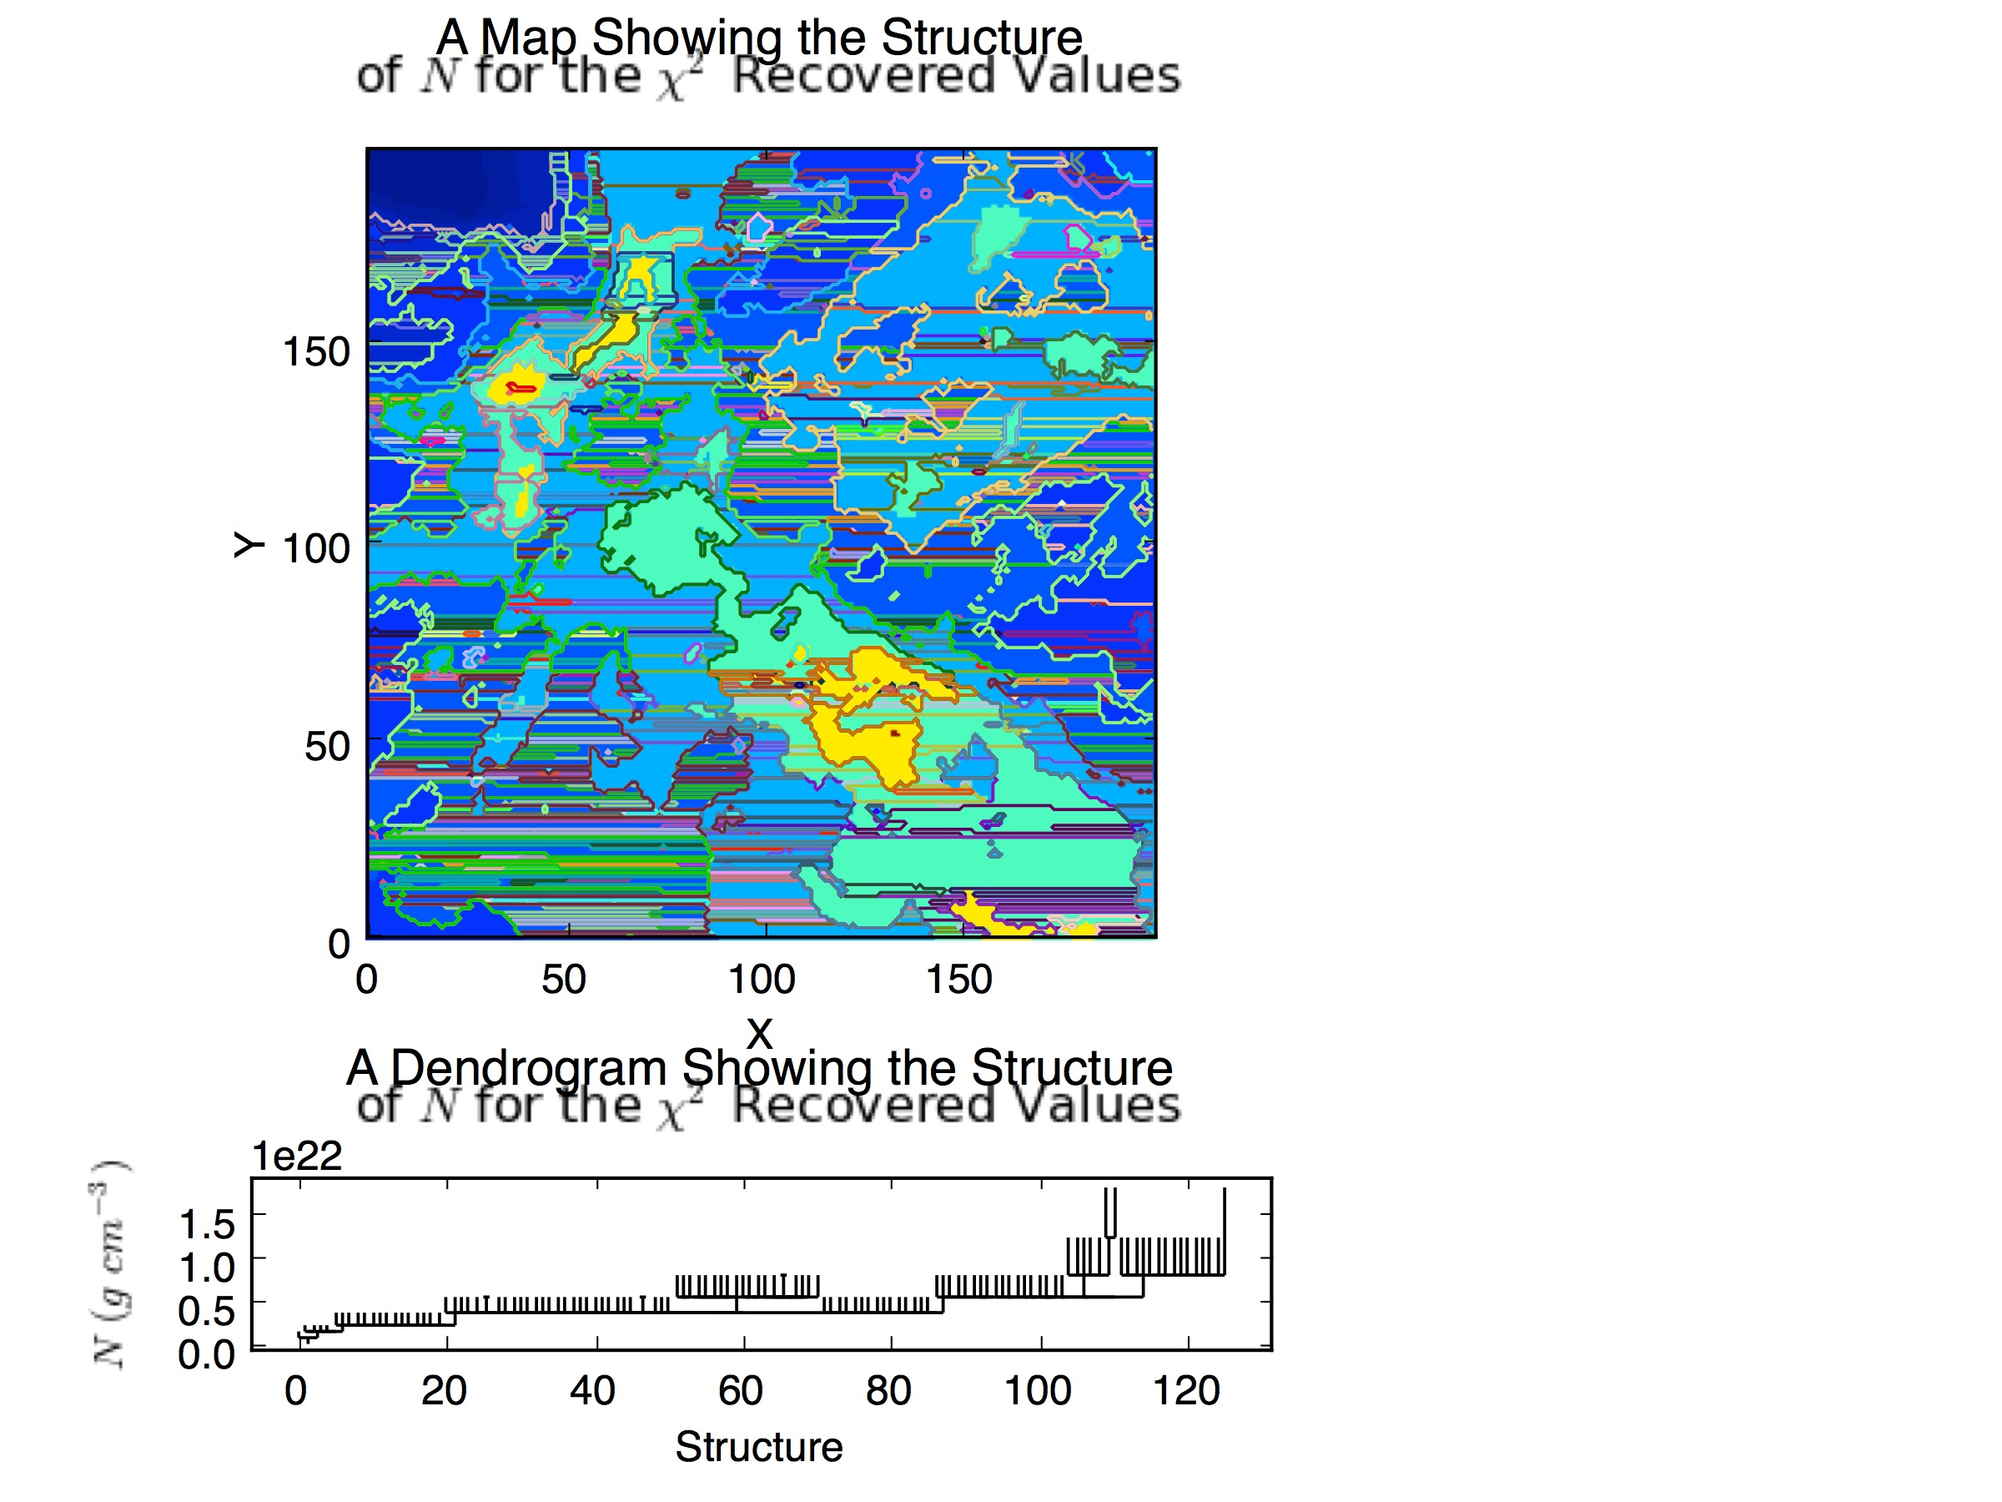
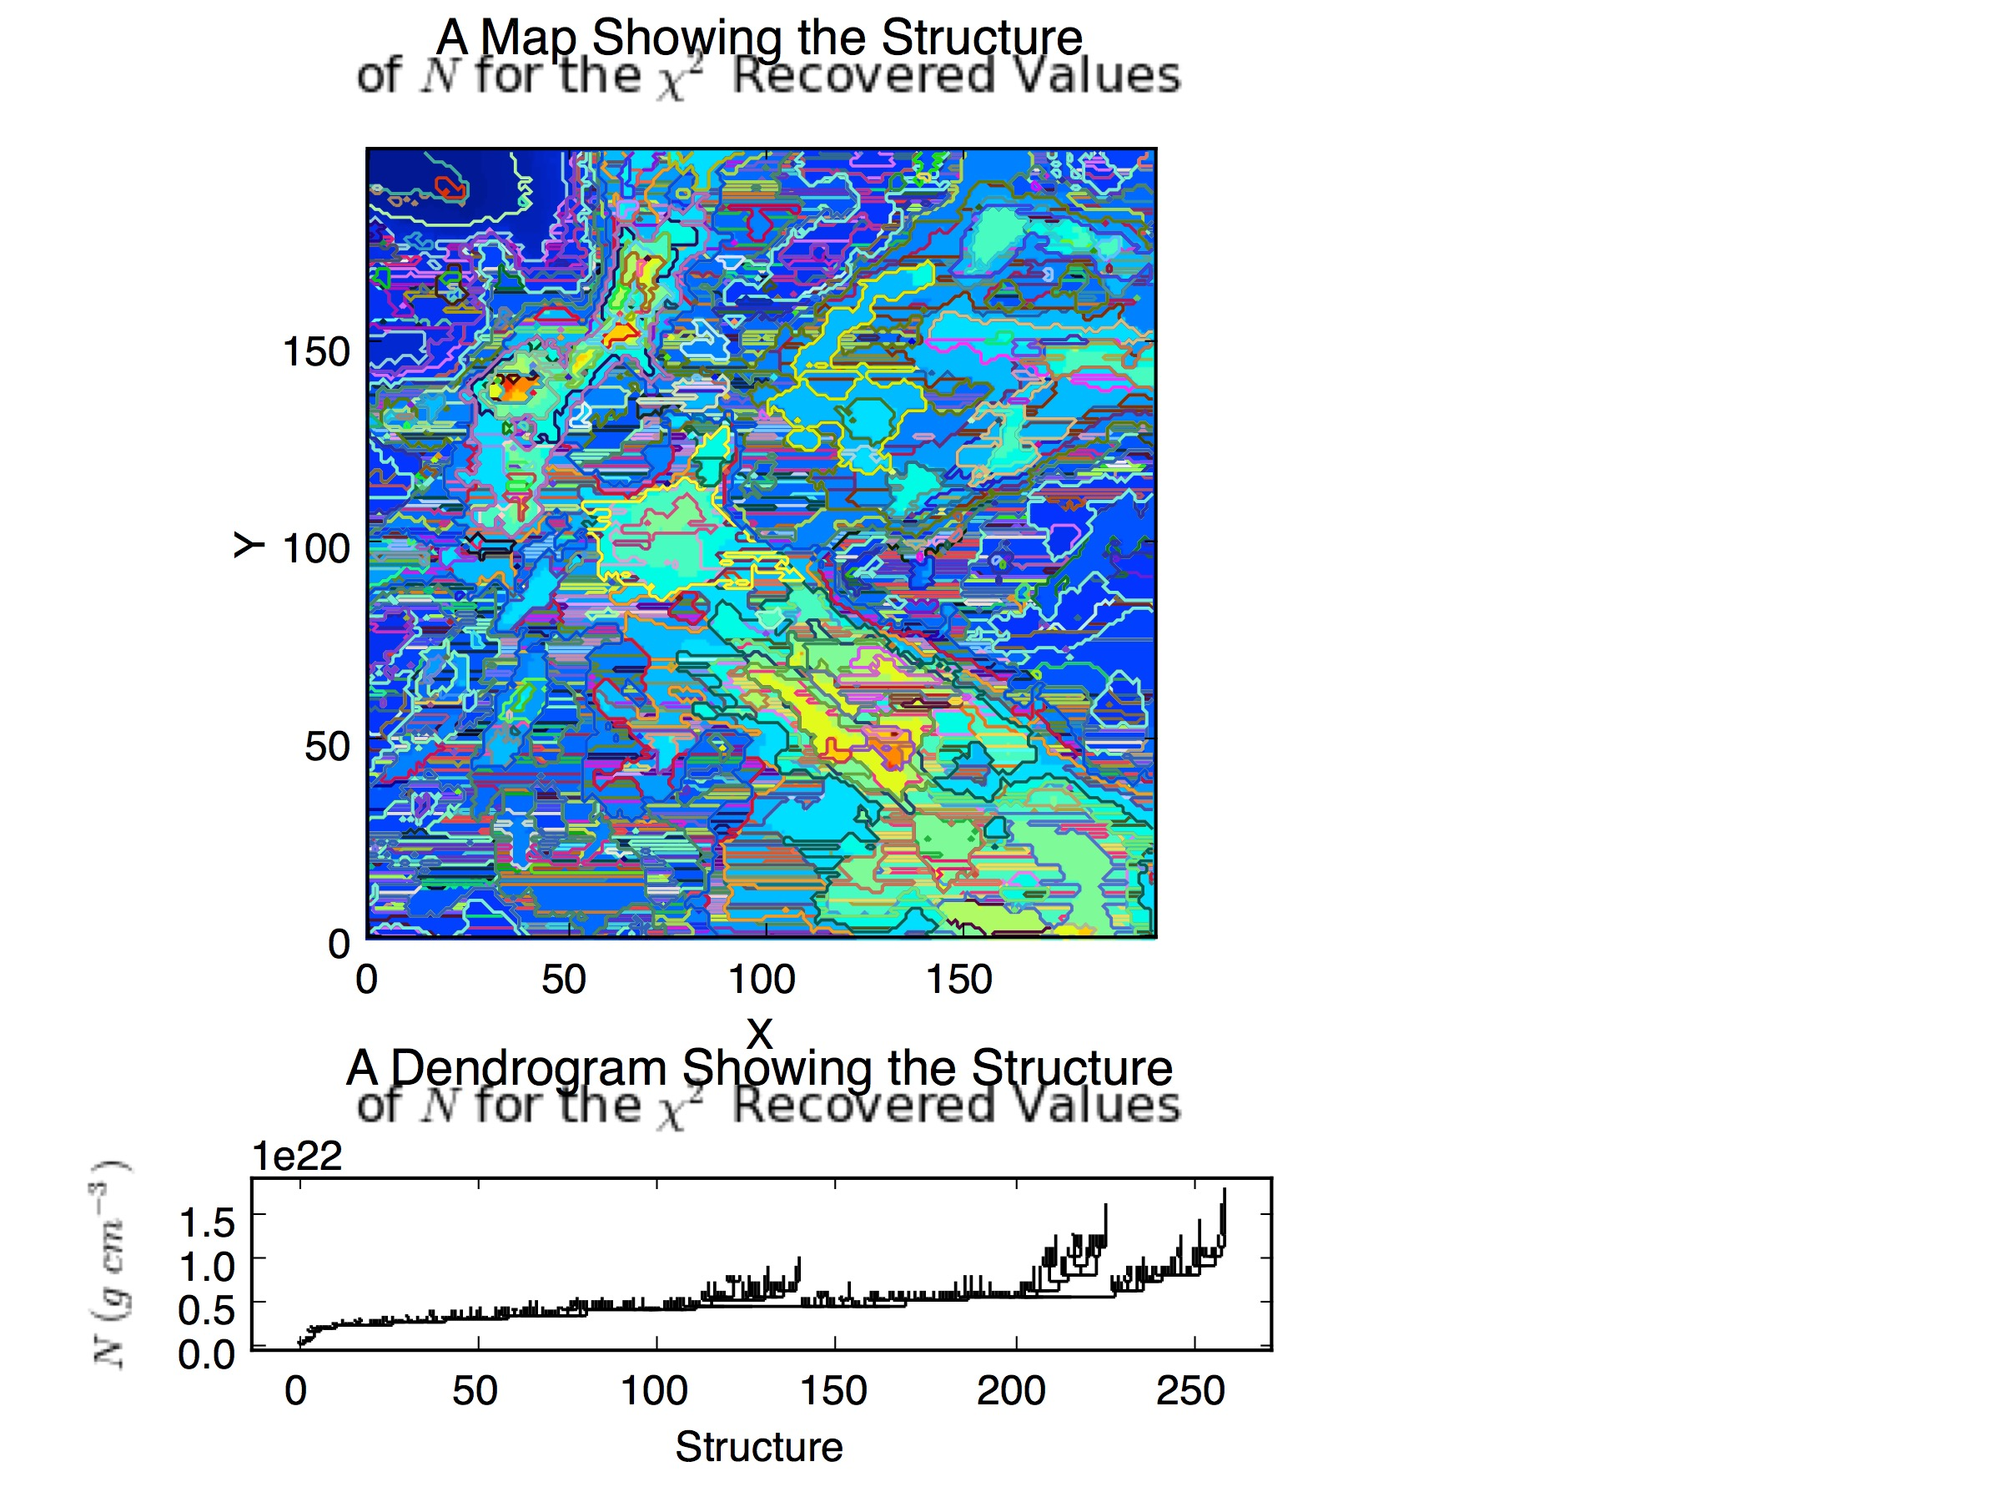
Added the fine run of chi squared

diff --git a/Code/simulations/curvefitting/filament/chiv6.py b/Code/simulations/curvefitting/filament/chiv6.py
@@ -89,7 +89,7 @@ flux = np.array([psw[:,5],pmw[:,5],plw[:,5],blue[:,5],green[:,5],red[:,5]])
 flux_error = np.array([psw[:,6],pmw[:,6],plw[:,6],blue[:,6],green[:,6],red[:,6]])
 
 # Read the initial radmc3dPy output to get image dimensions and info
-#imag = radmc3dPy.image.readImage('../../filament/blue/core/image.out')
+#imag = radmc3dPy.image.readImage('../../data/blue/dust_project/image.out')
 
 ######################### Determine (again) the opacity ########################
 
@@ -205,11 +205,12 @@ for i in range(0,len(xpix)*len(ypix)):
     col_full.append(col)
     T_full.append(col_T)
 
-N = np.linspace(np.log10(min(col_full)/100), np.log10(max(col_full)*100), 40)
+#N = np.linspace(np.log10(min(col_full)/100), np.log10(max(col_full)*100), 40)
+N = np.linspace(np.log10(10**18), np.log10(10**26), 40)
 
 # T is independent of the column density in determination so this remains unchanged
-T = np.linspace(min(dust_temperature)-1,max(dust_temperature)+1,40)
-#T = np.linspace(8,20,40)
+#T = np.linspace(min(dust_temperature)-4,max(dust_temperature)+4,40)
+T = np.linspace(4,20,40)
 
 datafeed_store.close()
 
@@ -225,7 +226,7 @@ print 'Now determining the modified blackbody curves.\n'
 chi_min_index_all, chi_min_blackbody_all = [], []
 
 # Save this to a file for storage
-chi_store = open('chi.txt', 'w')
+chi_store = open('chi_coarse.txt', 'w')
 cs = csv.writer(chi_store, delimiter=' ')
 
 # Save a line to allow better understanding of the columns
@@ -234,7 +235,7 @@ cs.writerow(cs_towrite)
 
 n = random.randint(0,imag.nx*imag.ny)
 
-for h in range(0,len(xpix)*len(ypix)):
+for h in range(0,imag.nx*imag.ny):
 
     # Loop through each column density and determine modified black body curve
     mod,chivals,N_index,T_index = [],[],[],[]
@@ -335,10 +336,149 @@ for h in range(0,len(xpix)*len(ypix)):
         grid(True,which='both')
         legend(loc='best')
         title('The $\chi^{2}$ Minimised Best Fit SED for PACS and SPIRE Bands for the (0,0) Pixel\n')
-        savefig('averages.png',dpi=300)
+        savefig('averages_coarse.png',dpi=300)
         close()
 
 chi_store.close()
+
+###################### Repeat for a second time #######################
+
+# Reopen the chi-squared storage
+chi_coarse = np.loadtxt('chi_coarse.txt', skiprows=1)
+
+# Determine the minimum and maximum column densities and temperatures
+min_N_loc, max_N_loc = np.where(chi_coarse[:,1] == chi_coarse[:,1].min())[0][0], np.where(chi_coarse[:,1] == chi_coarse[:,1].max())[0][0]
+min_T_loc, max_T_loc = np.where(chi_coarse[:,2] == chi_coarse[:,2].min())[0][0], np.where(chi_coarse[:,2] == chi_coarse[:,2].max())[0][0]
+
+min_N, max_N = chi_coarse[:,1][min_N_loc], chi_coarse[:,1][max_N_loc]
+min_T, max_T = chi_coarse[:,2][min_T_loc], chi_coarse[:,2][max_T_loc]
+
+print 'Now determining the (new) modified blackbody curves.\n'
+
+# Define the new N and T
+N = np.linspace(np.log10(min_N-min_N/2), np.log10(max_N+min_N/2), 40)
+T = np.linspace(min_T-min_T/2, max_T+min_T/2, 40)
+
+print 'I am now considering N from', min(N), 'to', max(N), 'and T from'
+print min(T), 'to', max(T), '.\n'
+
+chi_min_index_all, chi_min_blackbody_all = [], []
+
+# Save this to a file for storage
+chi_fine = open('chi_fine.txt', 'w')
+cs = csv.writer(chi_fine, delimiter=' ')
+
+# Save a line to allow better understanding of the columns
+cs_towrite = ['Index', 'Column Density', 'Temperature', 'Minimised Chi-Squared']
+cs.writerow(cs_towrite)
+
+n = random.randint(0,imag.nx*imag.ny)
+
+for h in range(0,imag.nx*imag.ny):
+
+    # Loop through each column density and determine modified black body curve
+    mod,chivals,N_index,T_index = [],[],[],[]
+
+    # Loop through both N and T to determine the blackbody
+    for i in range(0,len(N)):
+        for j in range(0,len(T)):
+            blackbody = mbb(10**N[i],dust_mass,opacity,v,T=T[j])
+
+            # Append the value of the given blackbody to a list for storage
+            mod.append(blackbody)
+
+            # Append the given values of N and T
+            N_index.append(10**N[i])
+            T_index.append(T[j])
+
+            #print 'N=',10**N[i],'and T=',T[i]
+
+            # Define lists to store band fluxes
+            to_fit_psw_list, to_fit_pmw_list, to_fit_plw_list, to_fit_blue_list, to_fit_green_list, to_fit_red_list = [], [], [], [], [], []
+
+            # Find the flux at the index determined earlier
+            to_fit_psw = blackbody[psw_index[0]]
+            to_fit_pmw = blackbody[pmw_index[0]]
+            to_fit_plw = blackbody[plw_index[0]]
+            to_fit_blue = blackbody[blue_index[0]]
+            to_fit_green = blackbody[green_index[0]]
+            to_fit_red = blackbody[red_index[0]]
+
+            # Put the fitting fluxes into an array
+            to_fit = np.array([to_fit_plw, to_fit_pmw, to_fit_psw, to_fit_red, to_fit_green, to_fit_blue])
+            #to_fit = np.array([to_fit_psw,to_fit_pmw,to_fit_plw,to_fit_blue])
+
+            # Takes the 6 data points for each pixel and puts them on a list to allow easier assignment
+            points = np.array([flux[2][h],flux[1][h],flux[0][h],flux[5][h],flux[4][h],flux[3][h]])
+            points_error = np.array([flux_error[2][h],flux_error[1][h],flux_error[0][h],flux_error[5][h],flux_error[4][h],flux_error[3][h]])
+
+            # Append the chi squared value
+            chisquared = chi(to_fit,points,sigma=points_error)
+
+            if chisquared == np.inf:
+                chivals.append(np.nan)
+            else:
+                chivals.append(chisquared)
+            #chivals.append(chi(to_fit,ps,sigma=[psw[2],pmw[2],plw[2],blue[2]]))
+
+            #print str('Found the chi-squared landscape. Moving to the next values...\n')
+
+    if h == imag.nx*imag.ny/10:
+        print '\r[=>         ] 10%'
+    elif h == 2*(imag.nx*imag.ny)/10:
+        print '\r[==>        ] 20%'
+    elif h == 3*(imag.nx*imag.ny)/10:
+        print '\r[===>       ] 30%'
+    elif h == 4*(imag.nx*imag.ny)/10:
+        print '\r[====>      ] 40%'
+    elif h == 5*(imag.nx*imag.ny)/10:
+        print '\r[=====>     ] 50%'
+    elif h == 6*(imag.nx*imag.ny)/10:
+        print '\r[======>    ] 60%'
+    elif h == 7*(imag.nx*imag.ny)/10:
+        print '\r[=======>   ] 70%'
+    elif h == 8*(imag.nx*imag.ny)/10:
+        print '\r[========>  ] 80%'
+    elif h == 9*(imag.nx*imag.ny)/10:
+        print '\r[=========> ] 90%'
+    elif h == (imag.nx*imag.ny)-1:
+        print '\r[==========>] 100%'
+
+    # Determine the chi squared minimum
+    chi_min_index = chivals.index(min(chivals))
+    chi_min_blackbody = mod[chi_min_index]
+
+    # Append this value to a list to store the values
+    chi_min_index_all.append(chi_min_index)
+    chi_min_blackbody_all.append(chi_min_blackbody)
+
+    cs_towrite = [h, N_index[chi_min_index], T_index[chi_min_index], min(chivals)]
+
+    # Write to file
+    cs.writerow(cs_towrite)
+    #print 'Writing row to datafile...\n'
+
+    if h == n:
+    # Plot the data
+        figure(1)
+        errorbar(psw[0][4],psw[0][5],yerr=psw[0][-1],fmt='co',label='SPIRE: PSW')
+        errorbar(pmw[0][4],pmw[0][5],yerr=pmw[0][-1],fmt='yo',label='SPIRE: PMW')
+        errorbar(plw[0][4],plw[0][5],yerr=plw[0][-1],fmt='mo',label='SPIRE: PLW')
+        errorbar(blue[0][4],blue[0][5],yerr=blue[0][-1],fmt='bo',label='PACS: Blue')
+        errorbar(green[0][4],green[0][5],yerr=green[0][-1],fmt='go',label='PACS: Green')
+        errorbar(red[0][4],red[0][5],yerr=red[0][-1],fmt='ro',label='PACS: Red')
+        plot(v,chi_min_blackbody,label=str('$\chi^2$')+str(' Minimum:\n $N$=')+str(N_index[chi_min_index])+str('$cm^{-2}$ \n')+str(' $T$=')+str(np.float(T_index[chi_min_index]))+str('$K$'))
+        xlabel(r'$\nu \/(Hz)$')
+        ylabel(r'Intensity $(erg/cm^{2}/s/Hz/ster)$')
+        xscale("log", nonposx='clip')
+        yscale("log", nonposx='clip')
+        grid(True,which='both')
+        legend(loc='best')
+        title('The $\chi^{2}$ Minimised Best Fit SED for PACS and SPIRE Bands for the (0,0) Pixel\n')
+        savefig('averages_fine.png',dpi=300)
+        close()
+
+chi_fine.close()
 
 '''
 # Plot the data

diff --git a/Code/simulations/curvefitting/sphdata/chiv6.py b/Code/simulations/curvefitting/sphdata/chiv6.py
@@ -205,11 +205,12 @@ for i in range(0,len(xpix)*len(ypix)):
     col_full.append(col)
     T_full.append(col_T)
 
-N = np.linspace(np.log10(min(col_full)/100), np.log10(max(col_full)*100), 40)
+#N = np.linspace(np.log10(min(col_full)/100), np.log10(max(col_full)*100), 40)
+N = np.linspace(18, 26, 40)
 
 # T is independent of the column density in determination so this remains unchanged
-T = np.linspace(min(dust_temperature)-4,max(dust_temperature)+4,40)
-#T = np.linspace(4,20,40)
+#T = np.linspace(min(dust_temperature)-4,max(dust_temperature)+4,40)
+T = np.linspace(4,20,40)
 
 datafeed_store.close()
 
@@ -225,7 +226,7 @@ print 'Now determining the modified blackbody curves.\n'
 chi_min_index_all, chi_min_blackbody_all = [], []
 
 # Save this to a file for storage
-chi_store = open('chi.txt', 'w')
+chi_store = open('chi_coarse.txt', 'w')
 cs = csv.writer(chi_store, delimiter=' ')
 
 # Save a line to allow better understanding of the columns
@@ -335,10 +336,149 @@ for h in range(0,imag.nx*imag.ny):
         grid(True,which='both')
         legend(loc='best')
         title('The $\chi^{2}$ Minimised Best Fit SED for PACS and SPIRE Bands for the (0,0) Pixel\n')
-        savefig('averages.png',dpi=300)
+        savefig('averages_coarse.png',dpi=300)
         close()
 
 chi_store.close()
+
+###################### Repeat for a second time #######################
+
+# Reopen the chi-squared storage
+chi_coarse = np.loadtxt('chi_coarse.txt', skiprows=1)
+
+# Determine the minimum and maximum column densities and temperatures
+min_N_loc, max_N_loc = np.where(chi_coarse[:,1] == chi_coarse[:,1].min())[0][0], np.where(chi_coarse[:,1] == chi_coarse[:,1].max())[0][0]
+min_T_loc, max_T_loc = np.where(chi_coarse[:,2] == chi_coarse[:,2].min())[0][0], np.where(chi_coarse[:,2] == chi_coarse[:,2].max())[0][0]
+
+min_N, max_N = chi_coarse[:,1][min_N_loc], chi_coarse[:,1][max_N_loc]
+min_T, max_T = chi_coarse[:,2][min_T_loc], chi_coarse[:,2][max_T_loc]
+
+print 'Now determining the (new) modified blackbody curves.\n'
+
+# Define the new N and T
+N = np.linspace(np.log10(min_N-min_N/2), np.log10(max_N+min_N/2), 40)
+T = np.linspace(min_T-min_T/2, max_T+min_T/2, 40)
+
+print 'I am now considering N from', min(N), 'to', max(N), 'and T from'
+print min(T), 'to', max(T), '.\n'
+
+chi_min_index_all, chi_min_blackbody_all = [], []
+
+# Save this to a file for storage
+chi_fine = open('chi_fine.txt', 'w')
+cs = csv.writer(chi_fine, delimiter=' ')
+
+# Save a line to allow better understanding of the columns
+cs_towrite = ['Index', 'Column Density', 'Temperature', 'Minimised Chi-Squared']
+cs.writerow(cs_towrite)
+
+n = random.randint(0,imag.nx*imag.ny)
+
+for h in range(0,imag.nx*imag.ny):
+
+    # Loop through each column density and determine modified black body curve
+    mod,chivals,N_index,T_index = [],[],[],[]
+
+    # Loop through both N and T to determine the blackbody
+    for i in range(0,len(N)):
+        for j in range(0,len(T)):
+            blackbody = mbb(10**N[i],dust_mass,opacity,v,T=T[j])
+
+            # Append the value of the given blackbody to a list for storage
+            mod.append(blackbody)
+
+            # Append the given values of N and T
+            N_index.append(10**N[i])
+            T_index.append(T[j])
+
+            #print 'N=',10**N[i],'and T=',T[i]
+
+            # Define lists to store band fluxes
+            to_fit_psw_list, to_fit_pmw_list, to_fit_plw_list, to_fit_blue_list, to_fit_green_list, to_fit_red_list = [], [], [], [], [], []
+
+            # Find the flux at the index determined earlier
+            to_fit_psw = blackbody[psw_index[0]]
+            to_fit_pmw = blackbody[pmw_index[0]]
+            to_fit_plw = blackbody[plw_index[0]]
+            to_fit_blue = blackbody[blue_index[0]]
+            to_fit_green = blackbody[green_index[0]]
+            to_fit_red = blackbody[red_index[0]]
+
+            # Put the fitting fluxes into an array
+            to_fit = np.array([to_fit_plw, to_fit_pmw, to_fit_psw, to_fit_red, to_fit_green, to_fit_blue])
+            #to_fit = np.array([to_fit_psw,to_fit_pmw,to_fit_plw,to_fit_blue])
+
+            # Takes the 6 data points for each pixel and puts them on a list to allow easier assignment
+            points = np.array([flux[2][h],flux[1][h],flux[0][h],flux[5][h],flux[4][h],flux[3][h]])
+            points_error = np.array([flux_error[2][h],flux_error[1][h],flux_error[0][h],flux_error[5][h],flux_error[4][h],flux_error[3][h]])
+
+            # Append the chi squared value
+            chisquared = chi(to_fit,points,sigma=points_error)
+
+            if chisquared == np.inf:
+                chivals.append(np.nan)
+            else:
+                chivals.append(chisquared)
+            #chivals.append(chi(to_fit,ps,sigma=[psw[2],pmw[2],plw[2],blue[2]]))
+
+            #print str('Found the chi-squared landscape. Moving to the next values...\n')
+
+    if h == imag.nx*imag.ny/10:
+        print '\r[=>         ] 10%'
+    elif h == 2*(imag.nx*imag.ny)/10:
+        print '\r[==>        ] 20%'
+    elif h == 3*(imag.nx*imag.ny)/10:
+        print '\r[===>       ] 30%'
+    elif h == 4*(imag.nx*imag.ny)/10:
+        print '\r[====>      ] 40%'
+    elif h == 5*(imag.nx*imag.ny)/10:
+        print '\r[=====>     ] 50%'
+    elif h == 6*(imag.nx*imag.ny)/10:
+        print '\r[======>    ] 60%'
+    elif h == 7*(imag.nx*imag.ny)/10:
+        print '\r[=======>   ] 70%'
+    elif h == 8*(imag.nx*imag.ny)/10:
+        print '\r[========>  ] 80%'
+    elif h == 9*(imag.nx*imag.ny)/10:
+        print '\r[=========> ] 90%'
+    elif h == (imag.nx*imag.ny)-1:
+        print '\r[==========>] 100%'
+
+    # Determine the chi squared minimum
+    chi_min_index = chivals.index(min(chivals))
+    chi_min_blackbody = mod[chi_min_index]
+
+    # Append this value to a list to store the values
+    chi_min_index_all.append(chi_min_index)
+    chi_min_blackbody_all.append(chi_min_blackbody)
+
+    cs_towrite = [h, N_index[chi_min_index], T_index[chi_min_index], min(chivals)]
+
+    # Write to file
+    cs.writerow(cs_towrite)
+    #print 'Writing row to datafile...\n'
+
+    if h == n:
+    # Plot the data
+        figure(1)
+        errorbar(psw[0][4],psw[0][5],yerr=psw[0][-1],fmt='co',label='SPIRE: PSW')
+        errorbar(pmw[0][4],pmw[0][5],yerr=pmw[0][-1],fmt='yo',label='SPIRE: PMW')
+        errorbar(plw[0][4],plw[0][5],yerr=plw[0][-1],fmt='mo',label='SPIRE: PLW')
+        errorbar(blue[0][4],blue[0][5],yerr=blue[0][-1],fmt='bo',label='PACS: Blue')
+        errorbar(green[0][4],green[0][5],yerr=green[0][-1],fmt='go',label='PACS: Green')
+        errorbar(red[0][4],red[0][5],yerr=red[0][-1],fmt='ro',label='PACS: Red')
+        plot(v,chi_min_blackbody,label=str('$\chi^2$')+str(' Minimum:\n $N$=')+str(N_index[chi_min_index])+str('$cm^{-2}$ \n')+str(' $T$=')+str(np.float(T_index[chi_min_index]))+str('$K$'))
+        xlabel(r'$\nu \/(Hz)$')
+        ylabel(r'Intensity $(erg/cm^{2}/s/Hz/ster)$')
+        xscale("log", nonposx='clip')
+        yscale("log", nonposx='clip')
+        grid(True,which='both')
+        legend(loc='best')
+        title('The $\chi^{2}$ Minimised Best Fit SED for PACS and SPIRE Bands for the (0,0) Pixel\n')
+        savefig('averages_fine.png',dpi=300)
+        close()
+
+chi_fine.close()
 
 '''
 # Plot the data

diff --git a/Code/simulations/imgprocess/sphdata/map.py b/Code/simulations/imgprocess/sphdata/map.py
@@ -30,7 +30,7 @@ from astropy.io import fits
 
 # Read in both data types
 inp_data = np.loadtxt('../../curvefitting/sphdata/datafeed.txt')
-chi_data = np.loadtxt('../../curvefitting/sphdata/chi.txt',skiprows=1)
+chi_data = np.loadtxt('../../curvefitting/sphdata/chi_fine.txt',skiprows=1)
 
 # Split data types into plottable quantities
 inp_N = inp_data[:,1]
